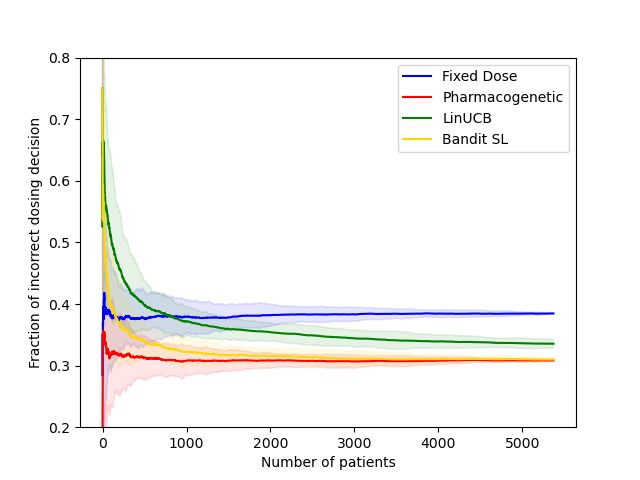
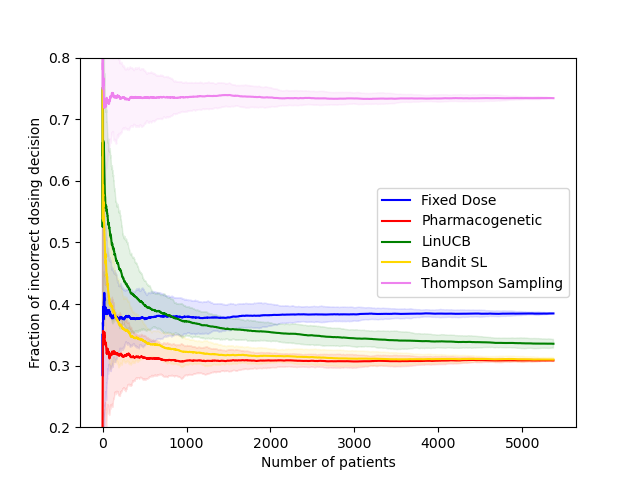
Add Thompson Sampling

diff --git a/thompson_sampling.py b/thompson_sampling.py
@@ -1,4 +1,3 @@
-import dataclasses
 from typing import Literal, Tuple
 
 import numpy as np
@@ -17,8 +16,8 @@ class BetaParams:
 
 
 class ContextFreeMAB:
-    def __init__(self, priors: list[BetaParams]) -> None:
-        self.priors = priors
+    def __init__(self, num_arms: int = 3) -> None:
+        self.priors = [BetaParams() for _ in range(num_arms)]
         self.rng = np.random.default_rng(seed=42)
 
     def play_arm(self, target: np.ndarray[Literal[0, -1]]) -> int:
@@ -28,21 +27,64 @@ class ContextFreeMAB:
         return chosen_arm
 
 
+def thompson_sampling(dataset: pd.DataFrame) -> np.ndarray[int]:
+    dosage_buckets = []
+    features, targets = _compute_features_and_targets(dataset)
+    MABs = _initialize(features)
+    for feature, target in zip(features, targets):
+        key = _convert_feature_to_bit_string(feature)
+        dosage_buckets.append(MABs[key].play_arm(target))
+
+    return np.array(dosage_buckets)
+
+
 def _compute_features_and_targets(
     df: pd.DataFrame,
-) -> Tuple[np.ndarray[float], np.ndarray[np.ndarray[int]]]:
+) -> Tuple[np.ndarray[np.ndarray[float]], np.ndarray[np.ndarray[int]]]:
     n_samples, n_arms = len(df), 3
 
     # Discretize all continuous features.
-    # Divide height and weights into 3 buckets each.
-    df.assign(_is_height_between_120_and_150=lambda x: 120 <= x["Height (cm)"] < 150)
-    df.assign(_is_height_between_180_and_210=lambda x: 150 <= x["Height (cm)"] < 180)
-    df.assign(_is_height_between_180_and_210=lambda x: 180 <= x["Height (cm)"] < 210)
-    df.assign(_is_weight_between_30_and_100=lambda x: 30 <= x["Weight (kg)"] < 100)
-    df.assign(_is_weight_between_100_and_170=lambda x: 100 <= x["Weight (kg)"] < 170)
-    df.assign(_is_weight_between_170_and_240=lambda x: 170 <= x["Weight (kg)"] < 240)
-
-    features_df = df.drop("Therapeutic Dose of Warfarin", axis=1)
+    # Divide height and weights into 3 buckets.
+    df["_is_height_between_120_and_150"] = df["Height (cm)"].between(
+        120, 150, inclusive="left"
+    )
+    df["_is_height_between_150_and_180"] = df["Height (cm)"].between(
+        150, 180, inclusive="left"
+    )
+    df["_is_height_between_180_and_210"] = df["Height (cm)"].between(
+        180, 210, inclusive="left"
+    )
+    df["_is_weight_between_30_and_100"] = df["Weight (kg)"].between(
+        30, 100, inclusive="left"
+    )
+    df["_is_weight_between_100_and_170"] = df["Weight (kg)"].between(
+        100, 170, inclusive="left"
+    )
+    df["_is_weight_between_170_and_240"] = df["Weight (kg)"].between(
+        170, 240, inclusive="left"
+    )
+    # Each decade is in its own bucket and column.
+    for decade in range(1, 10, 2):
+        df[f"_is_decade_{decade}"] = df["_age_decade"].between(
+            decade, decade + 2, inclusive="left"
+        )
+    features_df = df.copy()
+    for column in [
+        "Therapeutic Dose of Warfarin",
+        "Height (cm)",
+        "Weight (kg)",
+        "_age_decade",
+        # "VKORC1 A/G",
+        # "VKORC1 A/A",
+        # "VKORC1 unknown",
+        # "CYP2C9 *1/*2",
+        # "CYP2C9 *1/*3",
+        # "CYP2C9 *2/*2",
+        # "CYP2C9 *2/*3",
+        # "CYP2C9 *3/*3",
+        # "CYP2C9 unknown",
+    ]:
+        features_df = features_df.drop(column, axis=1)
     features_np = np.hstack([features_df.to_numpy(), np.ones((n_samples, 1))])
 
     dosage_np = df["Therapeutic Dose of Warfarin"].to_numpy()
@@ -54,3 +96,12 @@ def _compute_features_and_targets(
     targets_np[dosage_np > 49, 0] = -1.0
     targets_np[dosage_np > 49, 1] = -1.0
     return features_np, targets_np
+
+
+def _initialize(features: np.ndarray[np.ndarray[float]]) -> dict[str, ContextFreeMAB]:
+    # Assign one context-free MAB for each combination of features.
+    return {_convert_feature_to_bit_string(f): ContextFreeMAB() for f in features}
+
+
+def _convert_feature_to_bit_string(feature: np.ndarray[float]) -> str:
+    return "".join(bit for bit in feature.astype(int).astype(str))

diff --git a/main.py b/main.py
@@ -6,9 +6,12 @@ import pandas as pd
 from matplotlib import pyplot as plt
 
 import supervised_learning
+import thompson_sampling
 from dosing_algo import (fixed_dose_policy, linucb_policy,
                          pharmacogenetic_policy)
 from preprocessing import preprocess_patients_df
+
+N_TRIALS = 20
 
 
 @dataclasses.dataclass(frozen=True)
@@ -78,11 +81,12 @@ if __name__ == "__main__":
     patients_df = pd.read_csv("data/warfarin.csv")
     patients_df = preprocess_patients_df(patients_df)
 
-    N_TRIALS = 20
     fixed_dose_regret_trials, fixed_dose_incorrect_frac_trials = [], []
     linear_oracle_regret_trials, linear_oracle_incorrect_frac_trials = [], []
     linucb_regret_trials, linucb_incorrect_frac_trials = [], []
     bandit_sl_regret_trials, bandit_sl_incorrect_frac_trials = [], []
+    ts_regret_trials, ts_incorrect_frac_trials = [], []
+
     for _ in range(N_TRIALS):
         shuffled_patients_df = patients_df.sample(frac=1).reset_index(drop=True)
         dosage_target = shuffled_patients_df["Therapeutic Dose of Warfarin"].to_numpy()
@@ -115,6 +119,11 @@ if __name__ == "__main__":
         bandit_sl_regret_trials.append(bandit_sl_regret)
         bandit_sl_incorrect_frac_trials.append(bandit_sl_incorrect_frac)
 
+        ts_buckets = thompson_sampling.thompson_sampling(shuffled_patients_df)
+        ts_regret, ts_incorrect_frac = compute_metrics(ts_buckets, dosage_target)
+        ts_regret_trials.append(ts_regret)
+        ts_incorrect_frac_trials.append(ts_incorrect_frac)
+
     plot_performance(
         metrics=[
             Metric(
@@ -134,6 +143,11 @@ if __name__ == "__main__":
                 metric_values=bandit_sl_regret_trials,
                 label_name="Bandit SL",
                 color="gold",
+            ),
+            Metric(
+                metric_values=ts_regret_trials,
+                label_name="Thompson Sampling",
+                color="violet",
             ),
         ],
         n_patients=np.array(fixed_dose_regret_trials).shape[1],
@@ -164,6 +178,11 @@ if __name__ == "__main__":
                 metric_values=bandit_sl_incorrect_frac_trials,
                 label_name="Bandit SL",
                 color="gold",
+            ),
+            Metric(
+                metric_values=ts_incorrect_frac_trials,
+                label_name="Thompson Sampling",
+                color="violet",
             ),
         ],
         n_patients=np.array(fixed_dose_incorrect_frac_trials).shape[1],
